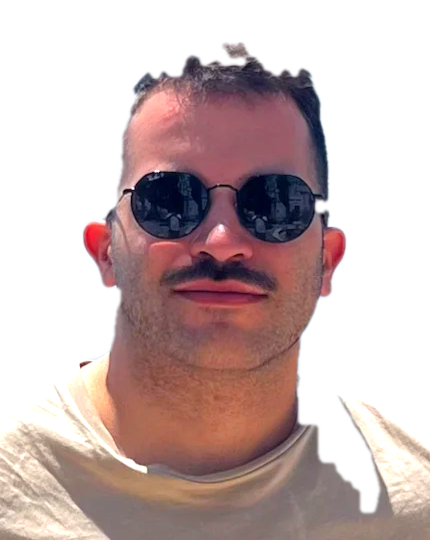
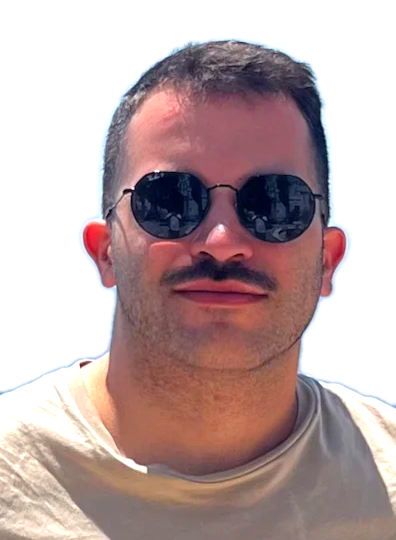
Stop the mask cutting through the hair
Backlit hair is blue-dominant where sky shows through the strands: the crown
measures r-b = -0.09 against skin at +0.10, so a threshold set for skin threw
away 86% of it and the card rendered a chopped head. Sky and sea sit near -0.22,
so a negative threshold keeps the hair and still excludes both. The crop's right
edge comes in to shed a bush the looser threshold now admits, and the frame
pulls back to include the shoulders.

Changed region(s): [[0.0303, 0.0593, 1.0, 1.0], [0.0, 0.7111, 0.0606, 0.7407]]

diff --git a/scripts/cutout.py b/scripts/cutout.py
@@ -9,8 +9,15 @@ red-minus-blue approach: skin and clothing are red-dominant, sky and water are
 blue-dominant, dark neutrals like hair and sunglasses are rescued back in, and
 only the region connected to the head survives.
 
-    ./scripts/cutout.py ~/Desktop/headshot.webp --crop 100,20,400,400 \
+    ./scripts/cutout.py ~/Desktop/headshot.webp --crop 40,15,436,555 \
+        --threshold -0.15 --brightness 1.45 --saturation 1.35 \
         --out assets/portrait.png
+
+The threshold is negative on purpose. Backlit hair is blue-dominant, because
+sky shows through the strands: at the crown it measures r-b = -0.09 against
+skin at +0.10, so a threshold tuned for skin cuts the hair off. Sky and sea sit
+far lower still, around -0.22, which leaves a wide gap to aim at. The right
+edge of the crop is pulled in to shed a bush that the looser threshold admits.
 """
 
 import argparse
